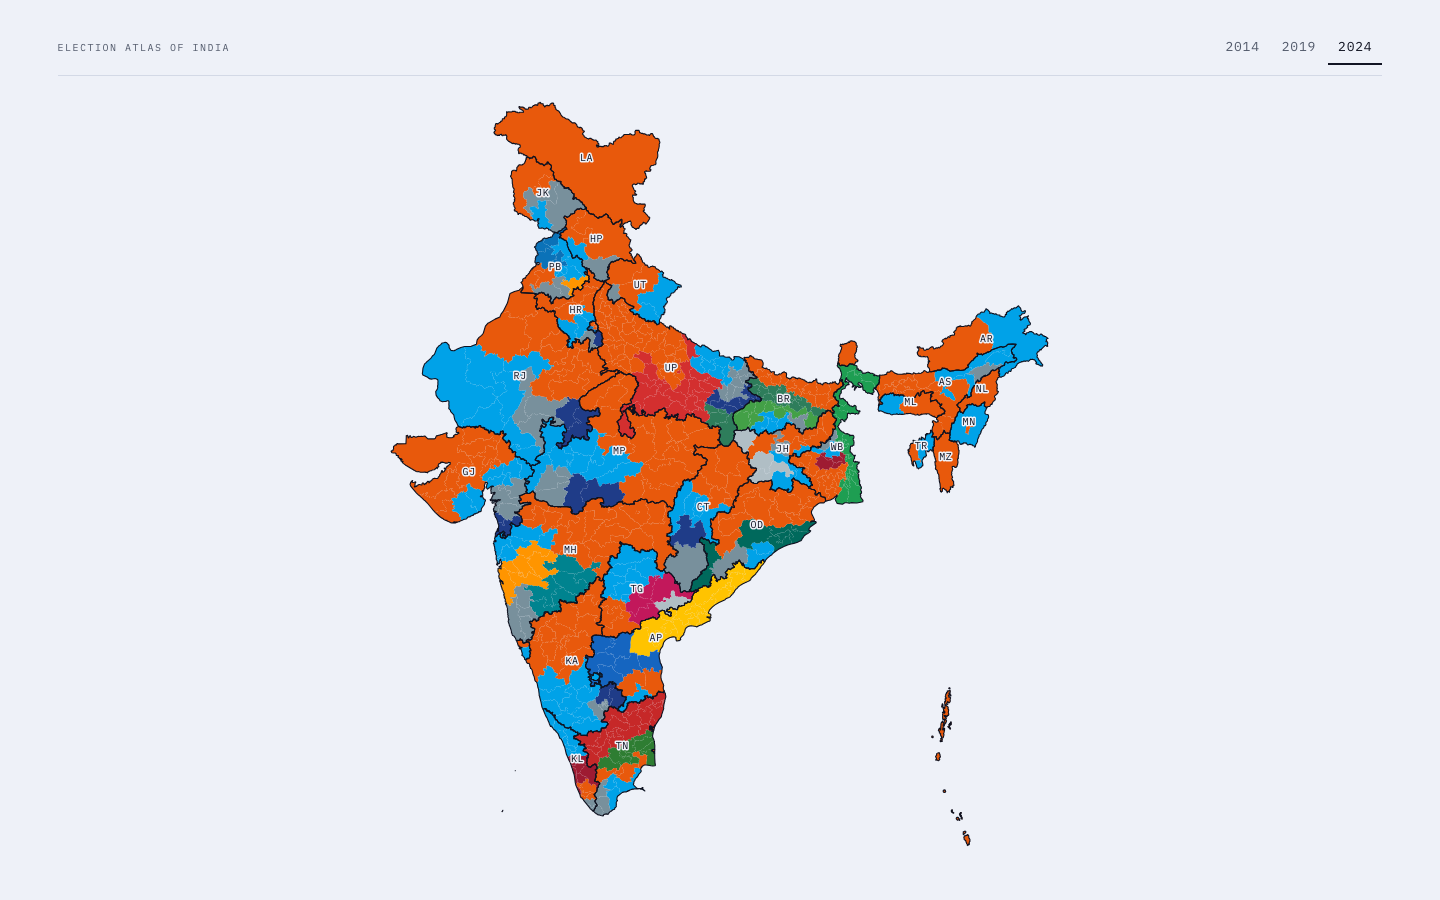
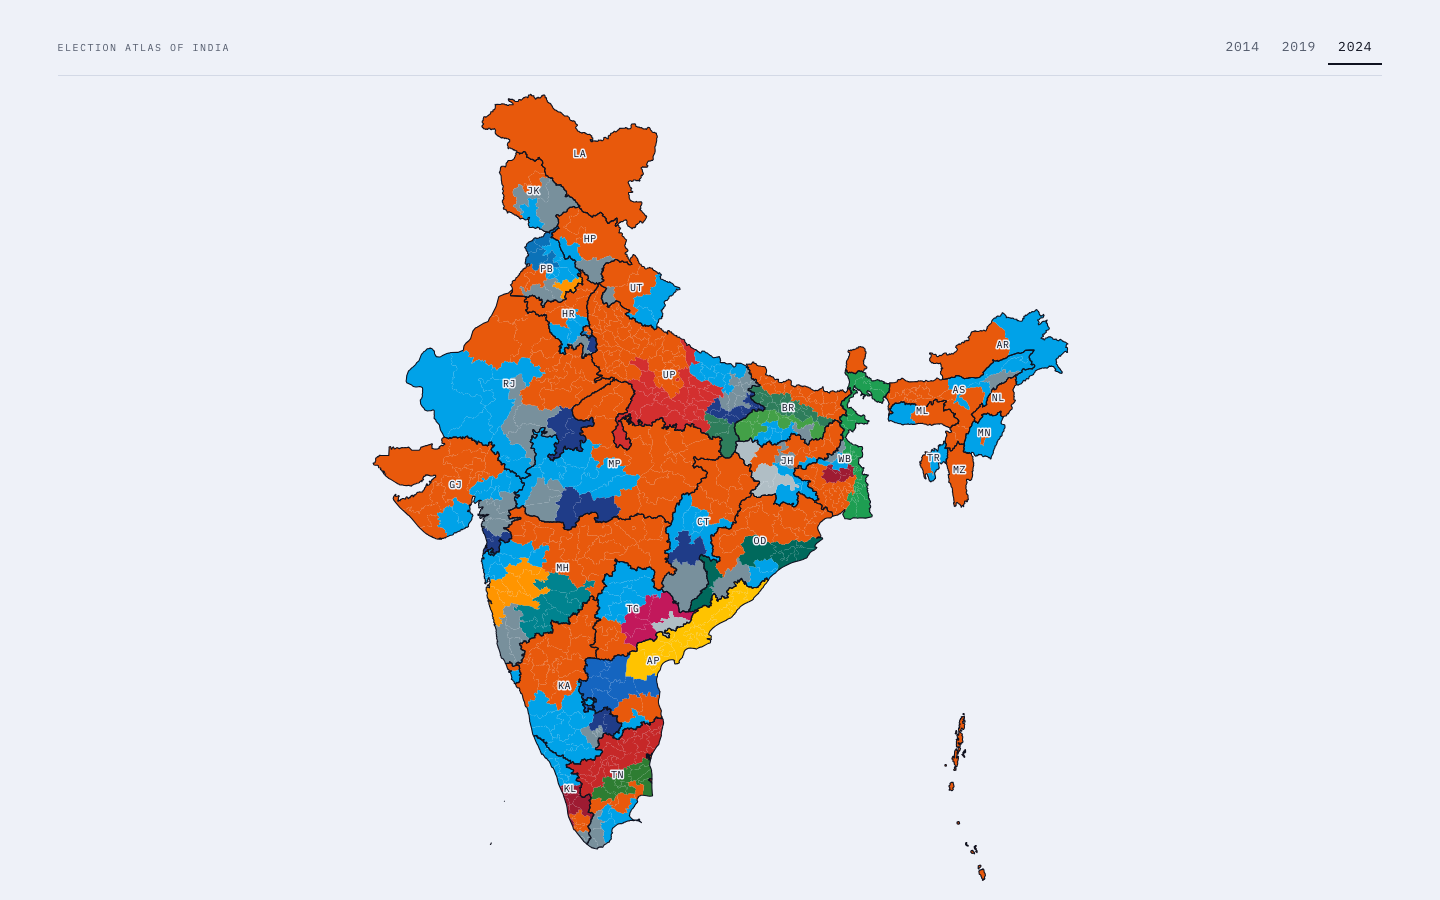
Delete the footer and let the browser size the map to one screen
The footer is gone: the Real / Not real / Derived / Boundaries colophon, and with
it the back-link to the portfolio that shared the element.

Its removal is what made the one-screen layout possible without a hand-tuned
constant. There is no `--chrome` magic number left to drift out of step with the
masthead: body is a flex column at 100dvh, main takes the viewport, the masthead
takes what it needs, and the map takes exactly the remainder. Height is set and
width follows from India's ratio; max-width catches the narrow screen where the
derived width would exceed the column, and there the svg letterboxes its own
drawing so the map centres rather than distorting.

Measured across ten viewports from 360x740 to 2560x1440: vertical scroll 0 and
horizontal scroll 0 at every one. The map fills 85-92% of the screen height on a
desktop and is 42-58% of its width — that width is the maximum available, not a
choice: at 1440x900 the viewport can spare 786px of height, which is 695px of map
and no more.

--map-spill is retained as the one dial for anyone who wants width more than they
want no scrolling.

Changed region(s): [[0.25, 0.0933, 0.75, 0.9644], [0.6562, 0.7778, 0.6875, 0.84]]

diff --git a/work/election-atlas/index.html b/work/election-atlas/index.html
@@ -25,26 +25,27 @@
   --pad:max(clamp(1.25rem,4vw,4.5rem),calc((100vw - var(--col)) / 2));
   --ease:cubic-bezier(.2,0,0,1);
 
-  /* Everything above and below the map, inside one screen: the masthead, the
-     plate's vertical padding, and a little air at the foot. The map's height is
-     the viewport minus this, so the map can never push the page past one screen. */
-  --chrome:9.5rem;
   /* The one dial. 1 = the map fits the screen exactly and never scrolls.
      Raise it to trade vertical scroll for width: India is taller than wide, so
-     at 1 a laptop gives the map about half the screen width, and every extra
-     tenth of a screen of scroll buys roughly a tenth more width. */
+     at 1 a laptop gives the map about half the screen width. */
   --map-spill:1;
-  --map-h:calc((100vh - var(--chrome)) * var(--map-spill));
 }
 
 *{box-sizing:border-box}
 html{-webkit-text-size-adjust:100%}
+html,body{height:100%}
 body{
   margin:0;background:var(--paper);color:var(--ink);
   font-family:var(--serif);font-optical-sizing:auto;
   font-size:1.0625rem;line-height:1.65;
   font-variant-numeric:tabular-nums;
   -webkit-font-smoothing:antialiased;
+  /* One screen, and the browser does the arithmetic. There is no hand-tuned
+     chrome constant left to drift out of step with the masthead: main takes the
+     whole viewport, the masthead takes what it needs, and the map takes exactly
+     the remainder. */
+  display:flex;flex-direction:column;
+  min-height:100dvh;
 }
 p{margin:0}
 .lbl{
@@ -53,11 +54,11 @@ p{margin:0}
 }
 
 /* ── shell ────────────────────────────────────────────────────────────── */
-main{padding:0 var(--pad)}
+main{flex:1 1 auto;min-height:0;display:flex;flex-direction:column;padding:0 var(--pad)}
 .hair{height:1px;background:var(--rule);border:0;margin:0}
 
 /* ── masthead ─────────────────────────────────────────────────────────── */
-.masthead{padding-top:clamp(1rem,2.4vw,2rem)}
+.masthead{flex:0 0 auto;padding-top:clamp(1rem,2.4vw,2rem)}
 .mh-top{display:flex;align-items:baseline;justify-content:space-between;gap:var(--s5);flex-wrap:wrap}
 .mh-top .lbl{margin:0}
 .years{display:flex;align-items:baseline;gap:2px;margin-bottom:-6px}
@@ -73,10 +74,14 @@ main{padding:0 var(--pad)}
 .year[disabled]{opacity:.4;cursor:default}
 
 /* ── the plate ────────────────────────────────────────────────────────── */
-.field{padding:clamp(.75rem,2vw,1.5rem) 0 clamp(1rem,2.5vw,2rem)}
-.mapfig{margin:0;min-width:0}
+.field{flex:1 1 auto;min-height:0;display:flex;flex-direction:column;padding:clamp(.5rem,1.5vw,1rem) 0 clamp(.75rem,1.2vw,1.25rem)}
+.mapfig{
+  flex:1 1 auto;min-height:0;margin:0;
+  display:flex;flex-direction:column;align-items:center;justify-content:center;
+  gap:var(--s3);
+}
 #map{
-  display:block;margin:0 auto;height:auto;overflow:visible;
+  display:block;margin:0 auto;overflow:visible;
   /* India's projected extent is 0.8839 wide to 1 tall — taller than wide, which
      is the whole problem. A map wide enough to fill a 1440px viewport is 1629px
      tall; one that fits a 900px viewport is 795px wide. Width and height cannot
@@ -85,8 +90,14 @@ main{padding:0 var(--pad)}
      column so it can never spill sideways either.
      0.8839 = geoMercator extent of lon 68.09..97.40 by lat 6.76..37.04. */
   aspect-ratio:884 / 1000;
-  --map-h:calc((100dvh - var(--chrome)) * var(--map-spill));
-  width:min(100%, calc(var(--map-h) * .8839));
+  /* Height is the constraint, so it is the one that is set; width follows from
+     India's ratio. max-width catches the narrow screen where the derived width
+     would exceed the column — there the map is width-bound instead, and because
+     the svg letterboxes its own drawing, the map simply centres in the space
+     rather than distorting. */
+  height:calc(100% * var(--map-spill));
+  width:auto;
+  max-width:100%;
 }
 
 /* Constituency fill. No stroke: a boundary is only visible where two adjacent
@@ -115,7 +126,7 @@ main{padding:0 var(--pad)}
 
 /* The note is a status line, not a caption: it holds the message when a year has
    no result file, and takes no space at all the rest of the time. */
-.mapnote{margin-top:var(--s4);text-align:center}
+.mapnote{flex:0 0 auto;text-align:center}
 .mapnote:empty{display:none}
 
 /* ── the hover card ───────────────────────────────────────────────────── */
@@ -151,15 +162,6 @@ main{padding:0 var(--pad)}
   box-shadow:inset 0 0 0 1px rgba(15,18,32,.2)}
 #card .more{color:var(--muted)}
 
-/* ── footer ───────────────────────────────────────────────────────────── */
-.foot{padding:var(--s6) var(--pad) var(--s7);font-family:var(--mono);font-size:.6875rem;line-height:1.75;color:var(--muted)}
-.foot a{color:var(--muted)}
-.foot-grid{
-  display:grid;grid-template-columns:repeat(auto-fit,minmax(15rem,1fr));
-  gap:var(--s5) var(--s6);margin:0 0 var(--s5);
-}
-.foot-grid dt{letter-spacing:.11em;text-transform:uppercase;font-size:.5625rem;color:var(--ink);opacity:.7}
-.foot-grid dd{margin:6px 0 0}
 
 /* ── responsive ───────────────────────────────────────────────────────── */
 @media (max-width:44rem){
@@ -192,27 +194,6 @@ main{padding:0 var(--pad)}
   </section>
 </main>
 
-<footer class="foot">
-  <dl class="foot-grid">
-    <div>
-      <dt>Real</dt>
-      <dd>The 543 parliamentary constituencies, their boundaries, the 36 states and union territories, and how many seats each state returns — Uttar Pradesh 80, Maharashtra 48, and so on.</dd>
-    </div>
-    <div>
-      <dt>Not real</dt>
-      <dd>Which party won any constituency. Every constituency result on this page is a placeholder, generated from the state totals so the layers agree with each other. The Election Commission's own constituency-wise figures exist for 2019 and 2024 and are the intended replacement.</dd>
-    </div>
-    <div>
-      <dt>Derived, not stored</dt>
-      <dd>Constituency files hold an absolute vote count and a party code, nothing else. Each state's seats won, votes and vote shares are aggregated in the browser from its own constituencies as the page loads.</dd>
-    </div>
-    <div>
-      <dt>Boundaries</dt>
-      <dd>Drawn to India's official territorial claim, which reaches about 37°N: the parts of Jammu and Kashmir administered by Pakistan and the Aksai Chin area administered by China are shown as Indian territory. Boundaries come from the 2019 structure — Ladakh as its own union territory — via a public-domain file built by georeferencing Election Commission maps. Those borders are approximate, and a Survey of India source should replace them before anyone relies on them.</dd>
-    </div>
-  </dl>
-  <p class="foot-links"><a href="/">← Akshay Prabhakant</a></p>
-</footer>
 
 <div id="card" role="status" aria-live="polite"></div>
 
